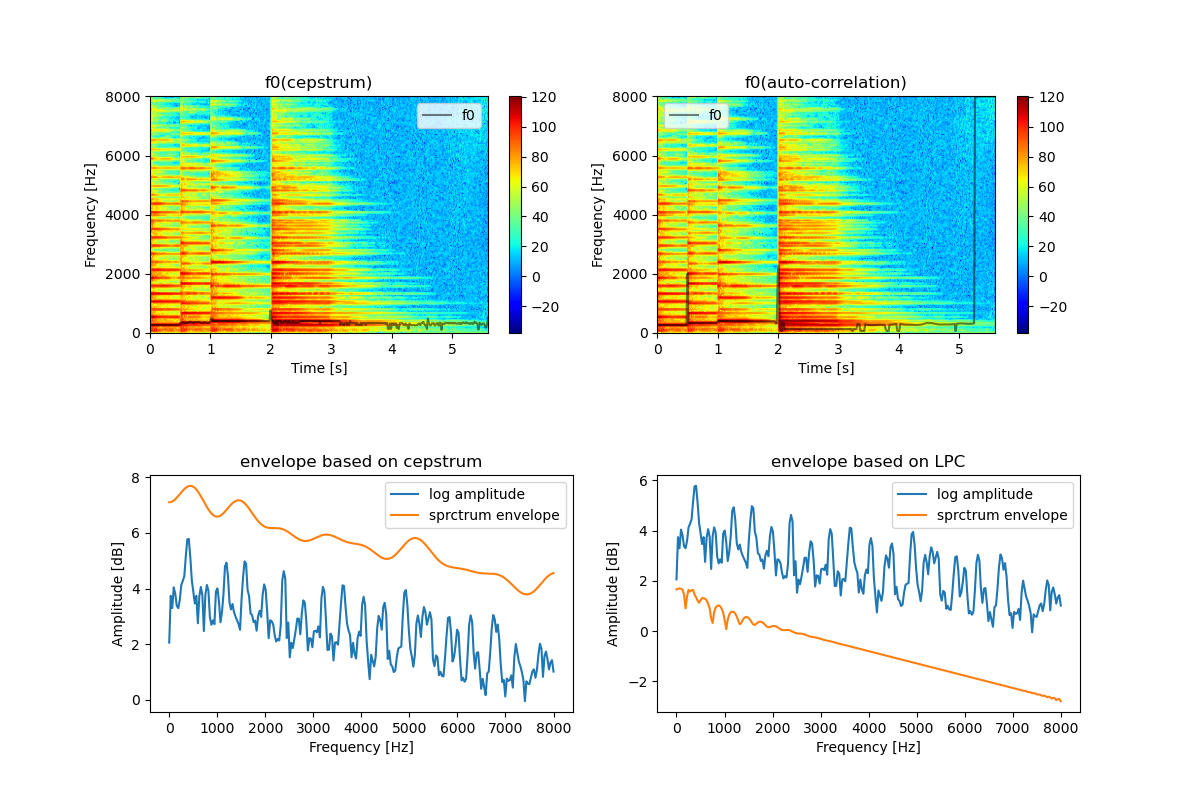
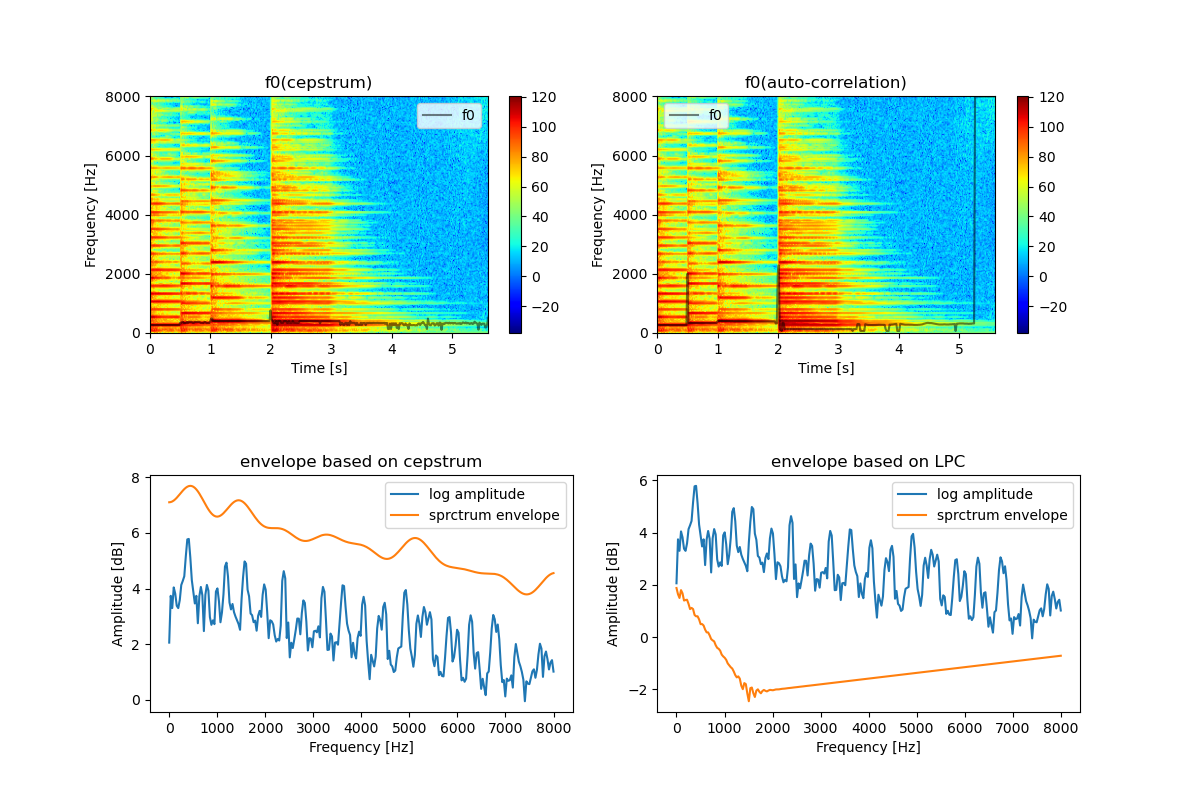
声での実行結果を追加

diff --git a/ex4/sawada/my_functions/envelope.py b/ex4/sawada/my_functions/envelope.py
@@ -39,10 +39,10 @@ def envelope_lpc(data, p, fs):
     # TODO: docstring
     auto_correlation = f0.auto_correlation(data)
     
-    # alphas = solve_toeplitz(auto_correlation[:p],
-    #                         -auto_correlation[1:p + 1])
-    alphas = scipy.linalg.solve_toeplitz(auto_correlation[:p],
-                                         -auto_correlation[1:p + 1])
+    alphas = solve_toeplitz(auto_correlation[:p],
+                            -auto_correlation[1:p + 1])
+    # alphas = scipy.linalg.solve_toeplitz(auto_correlation[:p],
+    #                                      -auto_correlation[1:p + 1])
     alphas = np.append([1], alphas)  # add constant term
     w, h = scipy.signal.freqz(1, alphas, fs=fs)
     
